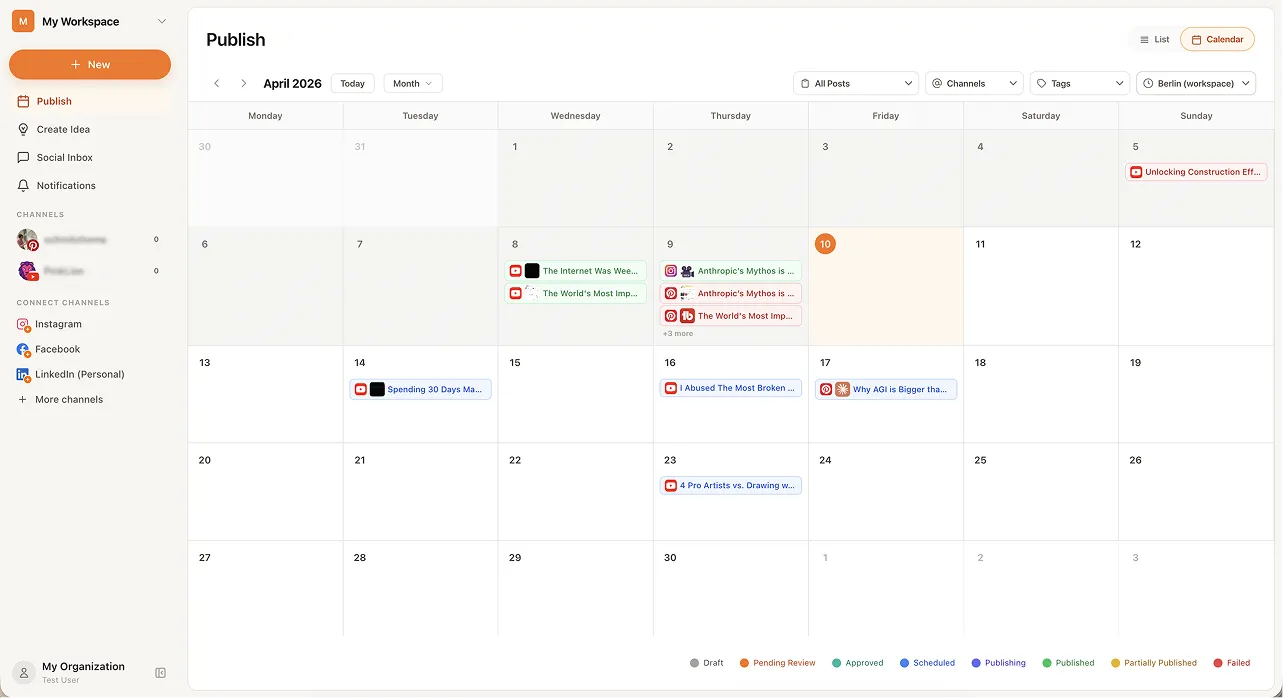
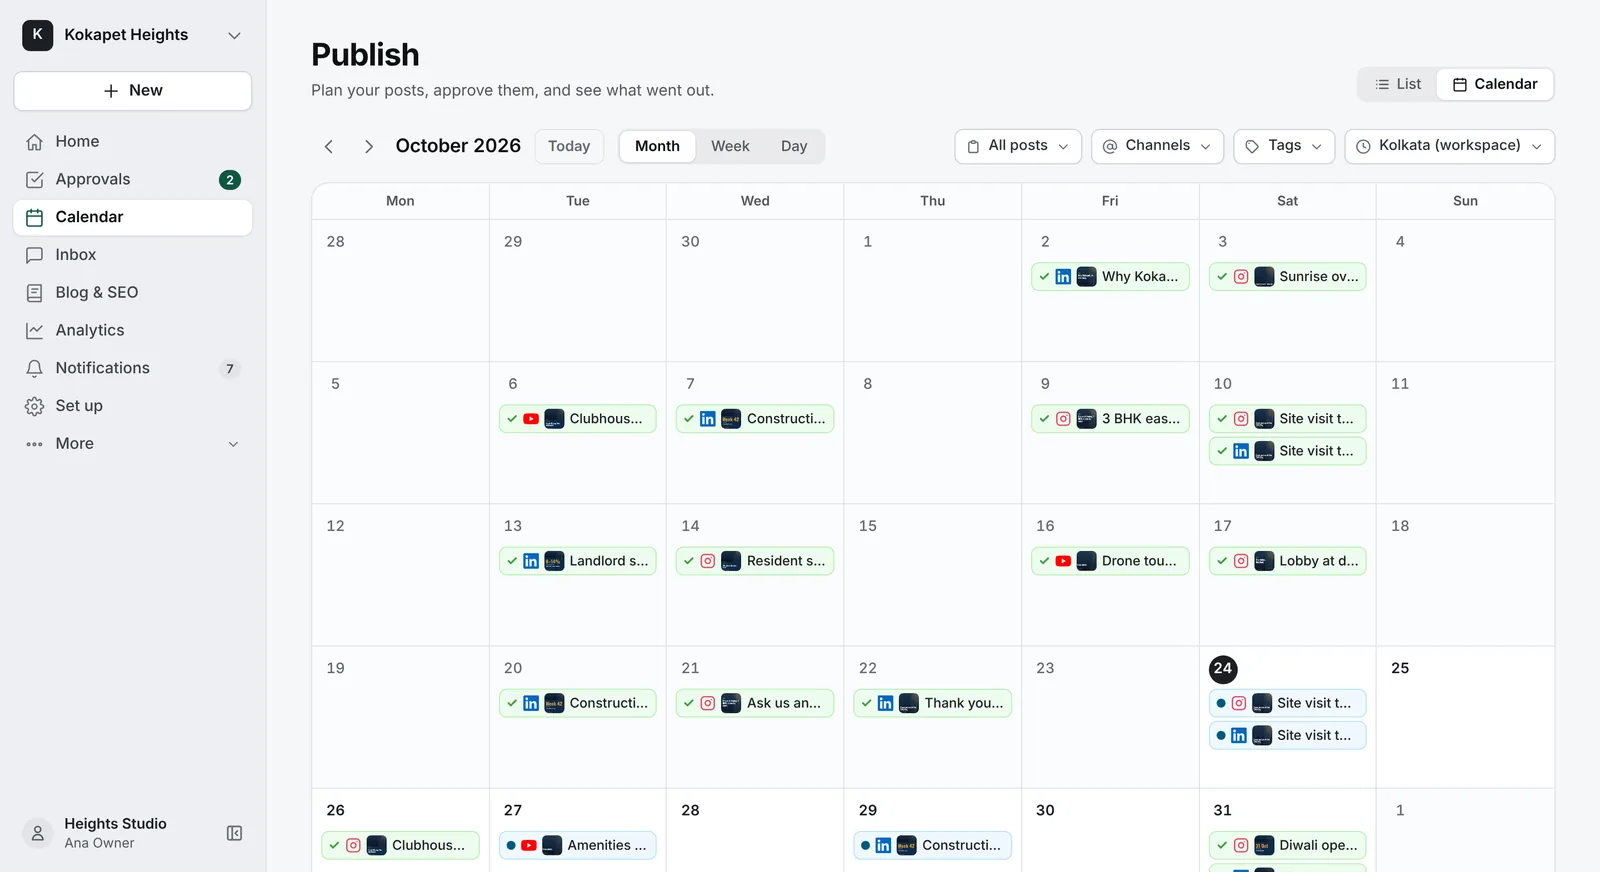
Re-shoot the marketing screenshots from the redesigned app
The hero and features images were captures from before the redesign: an
orange New button, orange nav and today circle, uppercase labels and the
old sidebar, on a page that is now graphite and Pine.

calendar, composer, ideas and analytics are re-captured from the current
app with a demo property brand (fictional, so no client appears on the
public site), at 1600x872 so they stay sharp in the frame. Alt text and
the browser-bar labels describe what is now shown. The unused
platforms.webp (also orange) is removed.

tools/recolor.py --check now also fails when a screenshot under
static/img/marketing is more than 0.2% retired-interface orange (hue
15-32 degrees, saturated and bright). The old captures measured
0.44-0.85%, the new ones at most 0.06%; a creative's amber accent sits
outside the band. Tests cover a clean folder, an orange capture and an
amber creative.

Claude-Session: https://claude.ai/code/session_01Pibv17XBha2W8UHDupcuY3

diff --git a/templates/marketing/features.html b/templates/marketing/features.html
@@ -21,8 +21,8 @@
         <div class="mk-feature reveal" id="composer">
             <div class="mk-feature__media">
                 <div class="mk-browser">
-                    <div class="mk-browser__bar"><i></i><i></i><i></i><span class="mk-browser__url">create · new post</span></div>
-                    <img src="{% static 'img/marketing/composer.webp' %}" alt="The post composer: selected accounts, title and caption fields, attached media, Pinterest board settings and live previews" width="1283" height="699" loading="lazy" decoding="async">
+                    <div class="mk-browser__bar"><i></i><i></i><i></i><span class="mk-browser__url">publish · edit post</span></div>
+                    <img src="{% static 'img/marketing/composer.webp' %}" alt="The post composer: selected accounts, the caption, an attached creative and live previews for each channel" width="1600" height="872" loading="lazy" decoding="async">
                 </div>
             </div>
             <div class="mk-feature__copy">
@@ -43,7 +43,7 @@
             <div class="mk-feature__media">
                 <div class="mk-browser">
                     <div class="mk-browser__bar"><i></i><i></i><i></i><span class="mk-browser__url">publish · calendar</span></div>
-                    <img src="{% static 'img/marketing/calendar.webp' %}" alt="Month view of the publishing calendar with colour-coded posts and a status legend" width="1283" height="698" loading="lazy" decoding="async">
+                    <img src="{% static 'img/marketing/calendar.webp' %}" alt="Month view of the publishing calendar: published posts marked with a check, scheduled posts with a dot, each with its channel" width="1600" height="872" loading="lazy" decoding="async">
                 </div>
             </div>
             <div class="mk-feature__copy">
@@ -64,7 +64,7 @@
             <div class="mk-feature__media">
                 <div class="mk-browser">
                     <div class="mk-browser__bar"><i></i><i></i><i></i><span class="mk-browser__url">create · ideas</span></div>
-                    <img src="{% static 'img/marketing/ideas.webp' %}" alt="The idea Kanban board with columns of content ideas moving toward drafting" width="1283" height="699" loading="lazy" decoding="async">
+                    <img src="{% static 'img/marketing/ideas.webp' %}" alt="The ideas board: content ideas with their creatives in Unassigned, To do, In progress and Done columns" width="1600" height="872" loading="lazy" decoding="async">
                 </div>
             </div>
             <div class="mk-feature__copy">
@@ -138,8 +138,8 @@
         <div class="mk-feature mk-feature--flip reveal" id="analytics">
             <div class="mk-feature__media">
                 <div class="mk-browser">
-                    <div class="mk-browser__bar"><i></i><i></i><i></i><span class="mk-browser__url">analytics · youtube</span></div>
-                    <img src="{% static 'img/marketing/analytics.webp' %}" alt="Analytics dashboard with KPI cards for views, watch time and engagement, and a 30-day views trend chart" width="1600" height="878" loading="lazy" decoding="async">
+                    <div class="mk-browser__bar"><i></i><i></i><i></i><span class="mk-browser__url">analytics · linkedin</span></div>
+                    <img src="{% static 'img/marketing/analytics.webp' %}" alt="Analytics for a LinkedIn page: impressions, engagement rate, reactions, comments and link clicks with changes, and a 30-day impressions chart" width="1600" height="872" loading="lazy" decoding="async">
                 </div>
             </div>
             <div class="mk-feature__copy">

diff --git a/templates/marketing/home.html b/templates/marketing/home.html
@@ -41,7 +41,7 @@
             </div>
             <div class="mk-browser">
                 <div class="mk-browser__bar"><i></i><i></i><i></i><span class="mk-browser__url">{% include "marketing/_icon.html" with name="lock" %} studio · publish · calendar</span></div>
-                <img src="{% static 'img/marketing/calendar.webp' %}" alt="Illustrative {{ site_name }} calendar with demo posts across Instagram, YouTube and LinkedIn" width="1283" height="698" fetchpriority="high">
+                <img src="{% static 'img/marketing/calendar.webp' %}" alt="Illustrative {{ site_name }} publishing calendar for a demo property brand: a month of published and scheduled posts across Instagram, YouTube and LinkedIn" width="1600" height="872" fetchpriority="high">
             </div>
             <div class="mk-hero__fade"></div>
         </div>
@@ -75,8 +75,8 @@
             <article class="mk-card mk-span-7 reveal">
                 <div class="mk-card__visual">
                     <div class="mk-browser">
-                        <div class="mk-browser__bar"><i></i><i></i><i></i><span class="mk-browser__url">create · new post</span></div>
-                        <img src="{% static 'img/marketing/composer.webp' %}" alt="The post composer with a caption, media, Pinterest board settings and live previews for Pinterest and YouTube" width="1283" height="699" loading="lazy" decoding="async">
+                        <div class="mk-browser__bar"><i></i><i></i><i></i><span class="mk-browser__url">publish · edit post</span></div>
+                        <img src="{% static 'img/marketing/composer.webp' %}" alt="The post composer with a caption, an attached creative, channel choices and live Instagram and LinkedIn previews" width="1600" height="872" loading="lazy" decoding="async">
                     </div>
                 </div>
                 <div class="mk-card__icon mk-card__icon--orange">{% include "marketing/_icon.html" with name="edit" %}</div>

diff --git a/tools/recolor.py b/tools/recolor.py
@@ -29,8 +29,9 @@ run changes nothing.
 Usage::
 
     python tools/recolor.py            # rewrite every target file
-    python tools/recolor.py --check    # change nothing; list files that would change and any
-                                       # old palette class left anywhere (exit 1 if either)
+    python tools/recolor.py --check    # change nothing; list files that would change, any old
+                                       # palette class left anywhere, and any marketing screenshot
+                                       # that still shows the orange interface (exit 1 if any)
     python tools/recolor.py path ...   # only these files
     python tools/recolor.py --diff     # print a unified diff instead of writing
 """
@@ -691,6 +692,49 @@ def leftovers(paths: Iterable[Path]) -> list[str]:
     return found
 
 
+# Product screenshots on the public site (static/img/marketing). The retired interface was orange
+# (Tailwind orange-400..700: hue 20-27 degrees, saturated, bright); the redesigned one has no orange at
+# all, so a screenshot where more than a sliver of pixels is that orange was captured before the
+# redesign. Creatives inside a screenshot keep their own colours; an amber or gold accent (hue 33+)
+# is outside the band. Measured: the old captures were 0.44-0.85% orange, the new ones 0.00-0.06%.
+MARKETING_IMAGES = ROOT / "static" / "img" / "marketing"
+ORANGE_HUE = (15, 32)  # degrees
+ORANGE_MIN_SATURATION = 150  # of 255
+ORANGE_MIN_VALUE = 140  # of 255
+ORANGE_LIMIT = 0.002  # share of pixels
+
+
+def orange_share(path: Path) -> float:
+    """The share of pixels in ``path`` that are the retired interface orange."""
+    from PIL import Image
+
+    with Image.open(path) as image:
+        hsv = image.convert("RGB").convert("HSV")
+        hsv.thumbnail((1000, 1000))
+        data = hsv.tobytes()
+    lo, hi = (round(d / 360 * 255) for d in ORANGE_HUE)
+    total = len(data) // 3
+    hits = sum(
+        1
+        for i in range(0, len(data), 3)
+        if lo <= data[i] <= hi and data[i + 1] >= ORANGE_MIN_SATURATION and data[i + 2] >= ORANGE_MIN_VALUE
+    )
+    return hits / total if total else 0.0
+
+
+def orange_screenshots(folder: Path = MARKETING_IMAGES) -> list[str]:
+    """Marketing screenshots that still show the retired orange interface (re-capture them)."""
+    found = []
+    for path in sorted(folder.glob("*")):
+        if path.suffix.lower() not in {".webp", ".png", ".jpg", ".jpeg"}:
+            continue
+        share = orange_share(path)
+        if share > ORANGE_LIMIT:
+            name = path.relative_to(ROOT) if path.is_relative_to(ROOT) else path
+            found.append(f"{name}: {share:.2%} of its pixels are the retired orange interface")
+    return found
+
+
 def main(argv: list[str] | None = None) -> int:
     parser = argparse.ArgumentParser(description=__doc__.split("\n\n")[0])
     parser.add_argument("paths", nargs="*", type=Path, help="only these files (default: every target)")
@@ -726,12 +770,19 @@ def main(argv: list[str] | None = None) -> int:
     if args.check:
         tests = sorted(p for p in (ROOT / "apps").rglob("*.py") if "tests" in p.parts or p.name.startswith("test_"))
         left = leftovers(html + js + py + tests) if not args.paths else leftovers(targets)
+        images = orange_screenshots() if not args.paths else []
         for name in rel:
             print(f"would recolour: {name}")
         for line in left:
             print(f"old palette class: {line}")
-        if rel or left:
-            print(f"{len(rel)} file(s) to recolour, {len(left)} old palette class line(s) left", file=sys.stderr)
+        for line in images:
+            print(f"old screenshot: {line}")
+        if rel or left or images:
+            print(
+                f"{len(rel)} file(s) to recolour, {len(left)} old palette class line(s) left, "
+                f"{len(images)} marketing screenshot(s) to re-capture",
+                file=sys.stderr,
+            )
             return 1
         print("recolor: nothing left to do")
         return 0

diff --git a/apps/common/tests/test_marketing_screenshots.py b/apps/common/tests/test_marketing_screenshots.py
@@ -1,0 +1,37 @@
+"""The public site's product screenshots show the redesigned app, not the retired orange one.
+
+The hero and features images were captures from before the redesign (an orange New button, orange
+nav and today circle). tools/recolor.py --check now flags any screenshot under static/img/marketing
+where more than a sliver of pixels is the retired interface orange.
+"""
+
+from PIL import Image
+
+from tools import recolor
+
+
+def test_current_marketing_screenshots_have_no_orange_interface():
+    assert recolor.orange_screenshots() == []
+
+
+def test_an_orange_interface_capture_is_flagged(tmp_path):
+    shot = Image.new("RGB", (400, 200), (246, 247, 248))  # the graphite canvas
+    for x in range(20, 120):  # an orange-500 "New" button, as the old captures had
+        for y in range(20, 44):
+            shot.putpixel((x, y), (0xF9, 0x73, 0x16))
+    shot.save(tmp_path / "calendar.webp", "WEBP")
+    Image.new("RGB", (400, 200), (246, 247, 248)).save(tmp_path / "clean.png")
+
+    found = recolor.orange_screenshots(tmp_path)
+
+    assert len(found) == 1 and "calendar.webp" in found[0]
+
+
+def test_a_creatives_amber_accent_is_not_the_interface_orange(tmp_path):
+    creative = Image.new("RGB", (400, 200), (14, 42, 71))  # a navy creative
+    for x in range(20, 380):
+        for y in range(40, 160):
+            creative.putpixel((x, y), (0xE8, 0xA3, 0x3D))  # amber headline
+    creative.save(tmp_path / "creative.png")
+
+    assert recolor.orange_screenshots(tmp_path) == []
